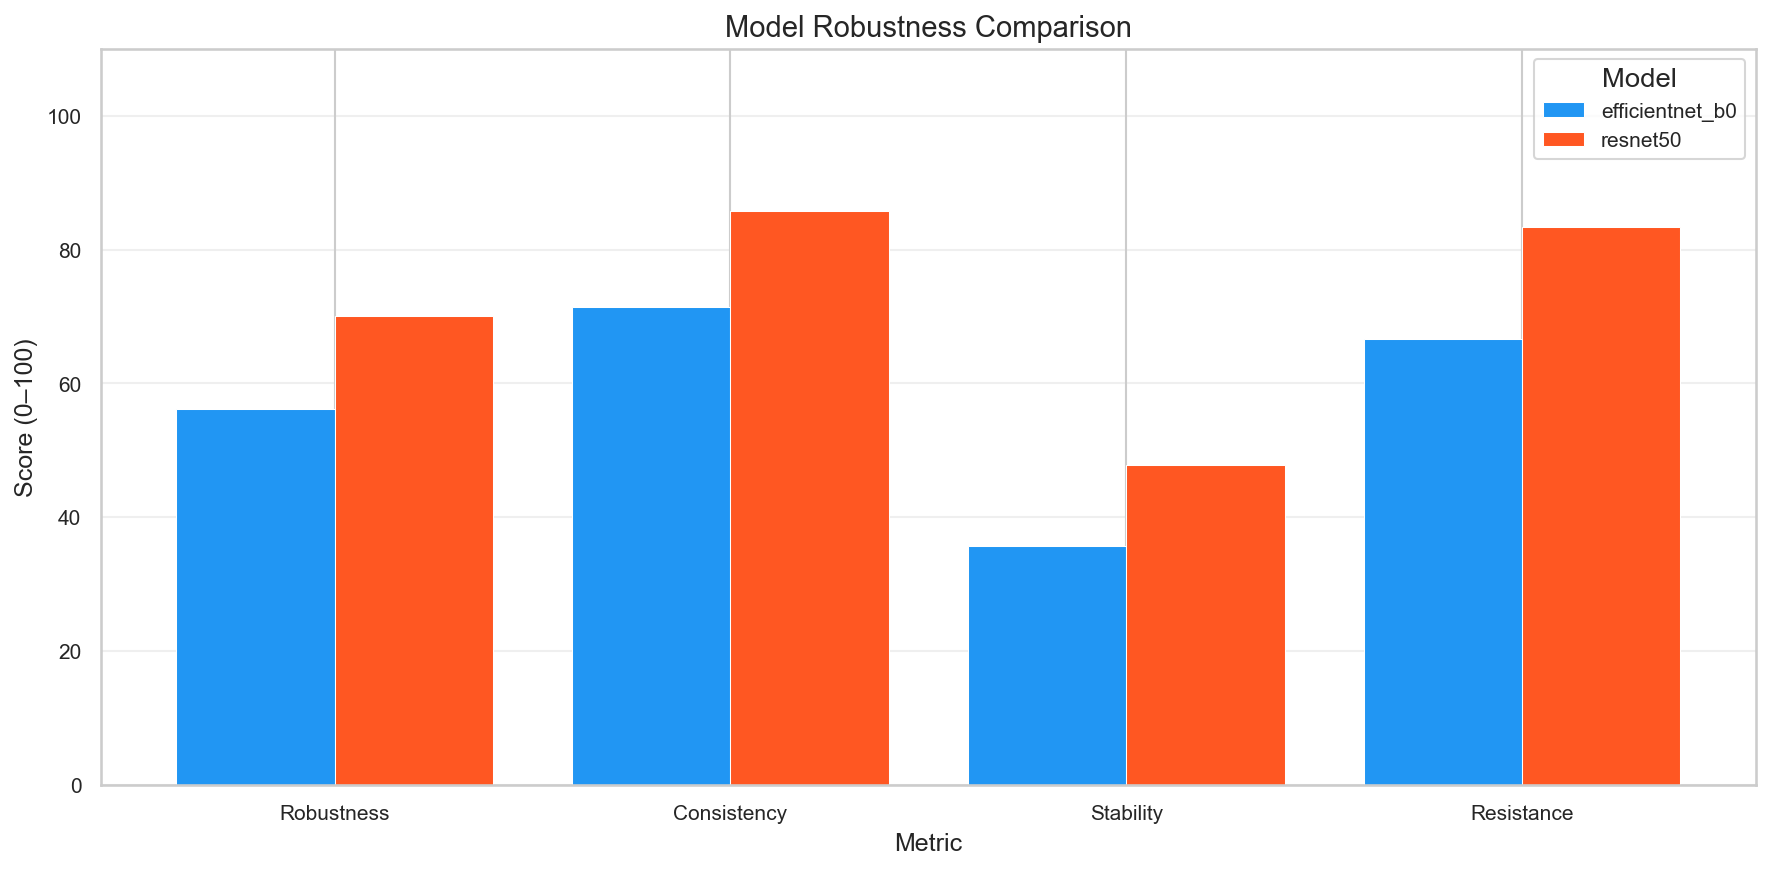
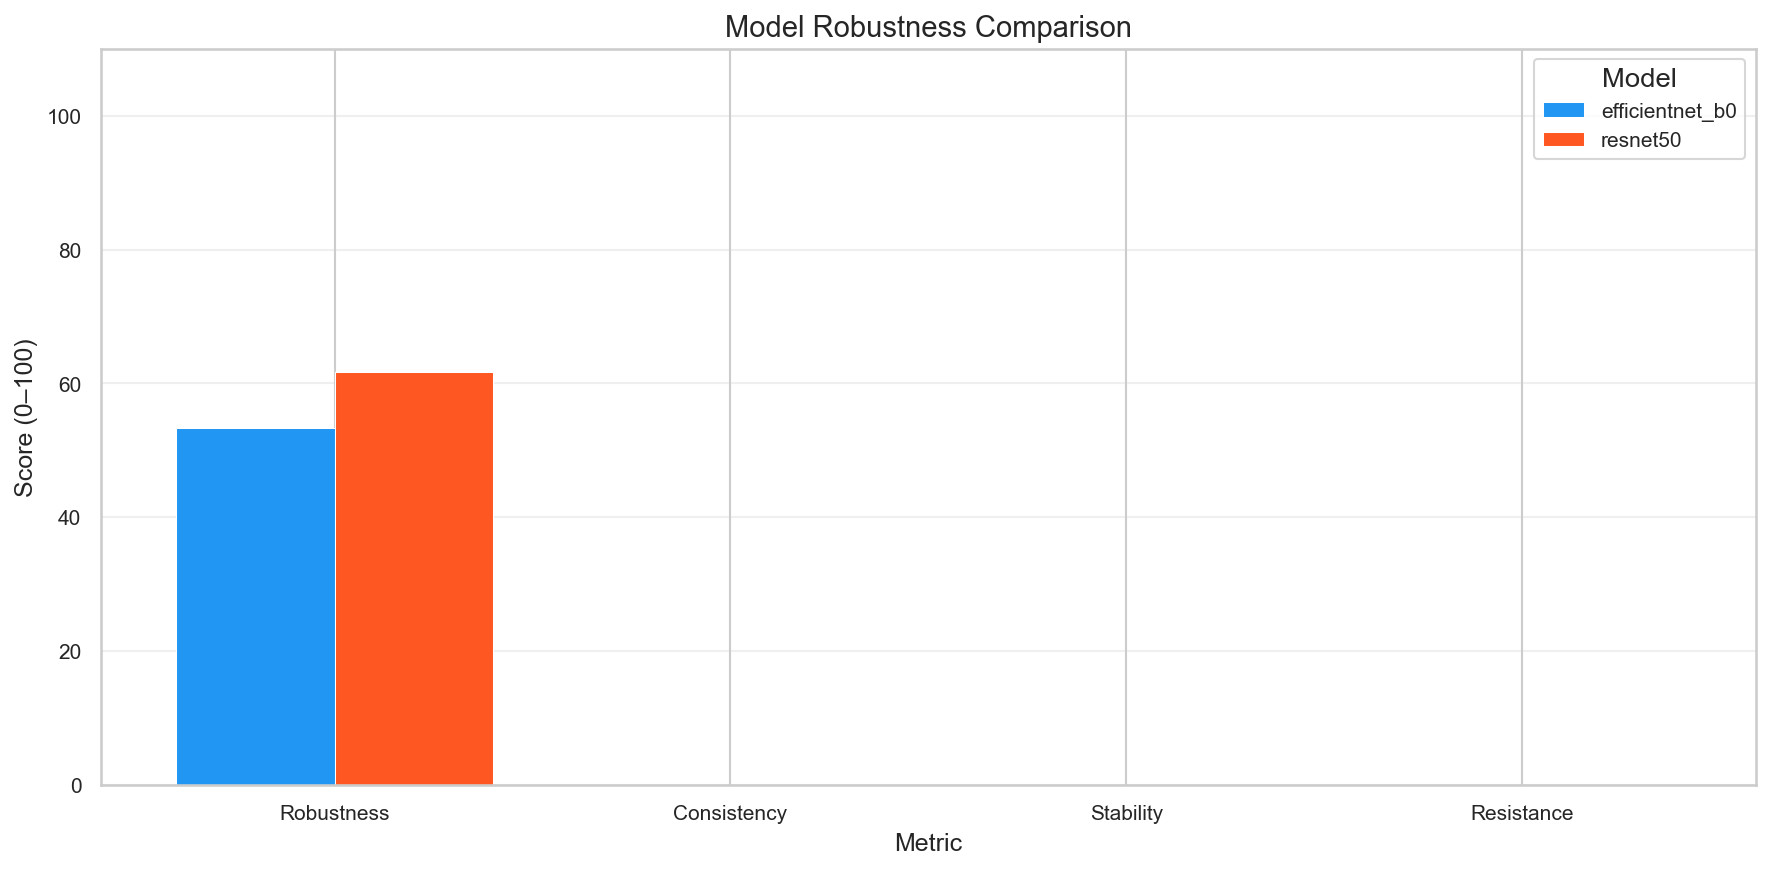
fix: robustness_analyzer dict->array conversion for all_probabilities; pip seaborn added

Changed region(s): [[0.3107, 0.2172, 0.9633, 0.9], [0.1864, 0.3414, 0.2797, 0.4345], [0.0932, 0.4655, 0.1864, 0.4966]]

diff --git a/analysis/robustness_analyzer.py b/analysis/robustness_analyzer.py
@@ -74,11 +74,21 @@ def _extract_perturbation_data(model_results: Dict) -> List[Dict]:
     for pert_id, pert_data in model_results.items():
         if "error" in pert_data:
             continue
+        # all_probabilities is a dict {class_name: float} from batch_inference.py.
+        # Extract values (sorted by key for consistency) before converting to np.array.
+        all_probs_raw = pert_data.get("all_probabilities", [])
+        if isinstance(all_probs_raw, dict):
+            all_probs_arr = np.array(
+                [all_probs_raw[k] for k in sorted(all_probs_raw.keys())], dtype=float
+            )
+        else:
+            all_probs_arr = np.array(all_probs_raw, dtype=float)
+
         records.append({
             "id":          pert_id,
             "prediction":  pert_data.get("prediction"),
             "confidence":  float(pert_data.get("confidence", 0.0)),
-            "all_probs":   np.array(pert_data.get("all_probabilities", []), dtype=float),
+            "all_probs":   all_probs_arr,
             "type":        pert_data.get("metadata", {}).get("type", pert_id),
             "parameter":   pert_data.get("metadata", {}).get("parameter", None),
         })

diff --git a/inference/batch_inference.py b/inference/batch_inference.py
@@ -212,8 +212,8 @@ def run_batch_inference(image_path: str) -> Dict:
     img_rgb  = cv2.cvtColor(img_bgr, cv2.COLOR_BGR2RGB)
 
     # Generate perturbations
-    from perturbations.perturbation_engine import generate_all_perturbations
-    perturbations = generate_all_perturbations(img_rgb)
+    from perturbations.perturbation_engine import generate_perturbations
+    perturbations = generate_perturbations(image_path)
 
     results = {}
 
@@ -226,7 +226,7 @@ def run_batch_inference(image_path: str) -> Dict:
             continue
 
         model_results = {}
-        for pert in perturbations:
+        for pert in perturbations.values():
             pert_id = pert["id"]
             try:
                 pred = predict_single(model, pert["image"], temperature=temperature)
